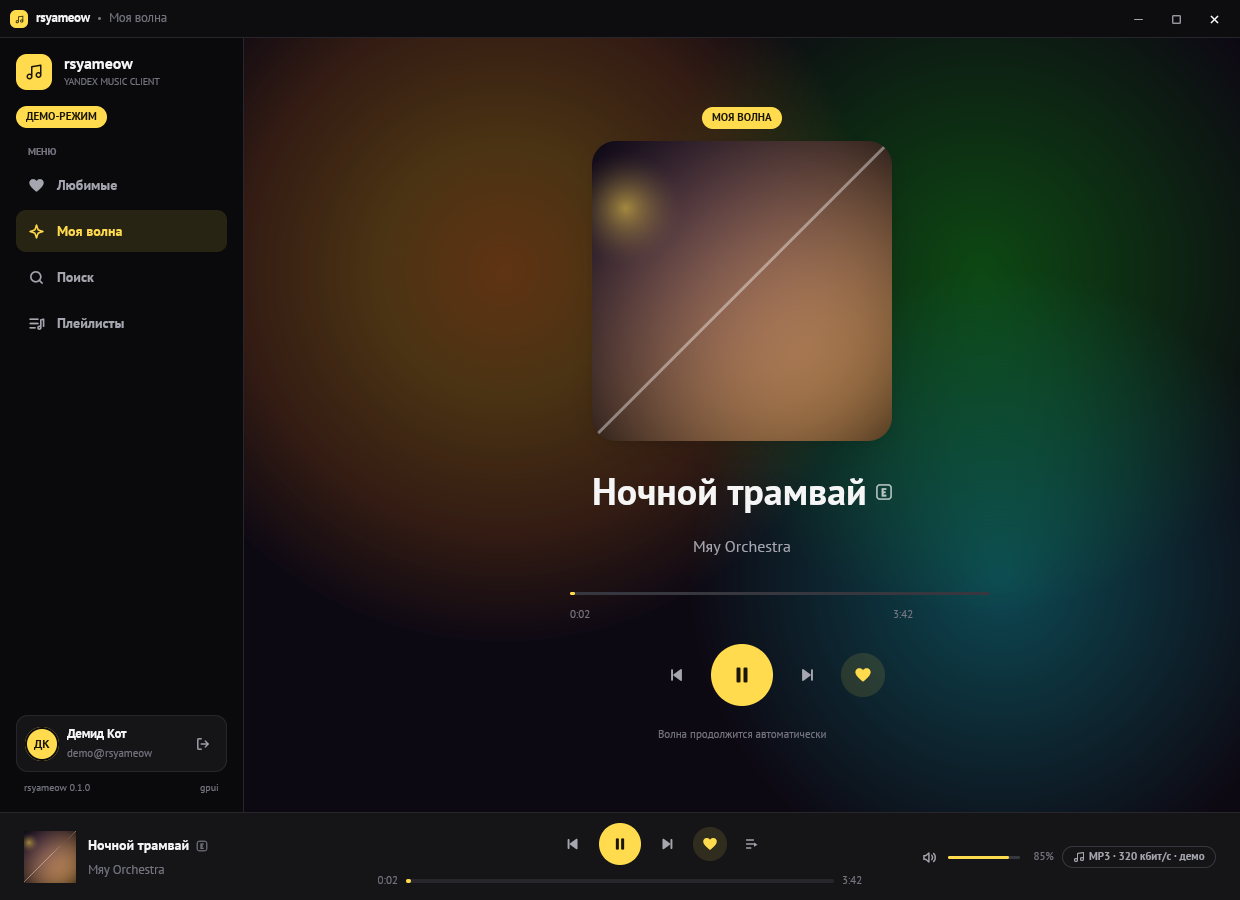
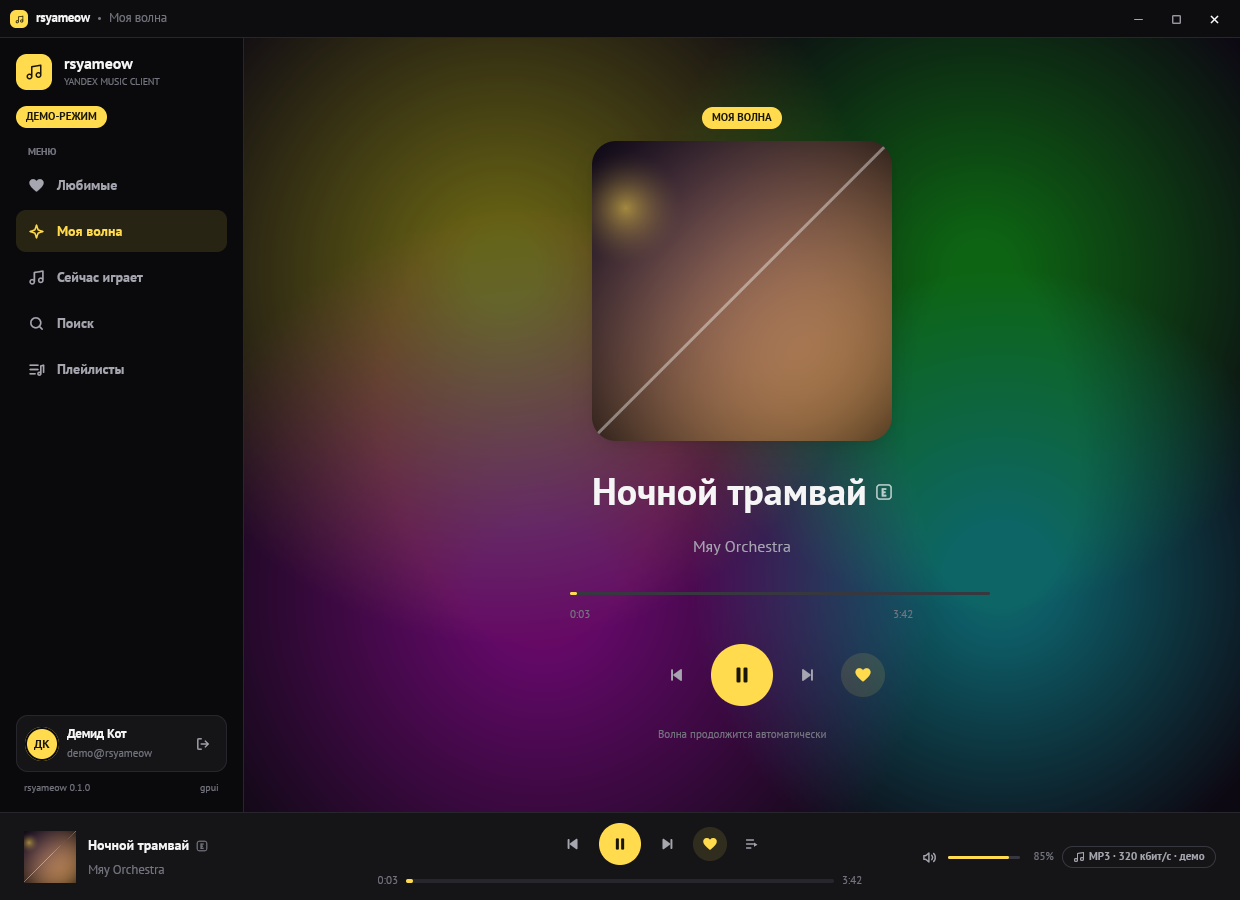
Document static radial gradient background

diff --git a/README.md b/README.md
@@ -43,12 +43,12 @@
   обложка, название, исполнитель и альбом со ссылками, длительность и, для
   текущего трека, позиция прослушивания. Ниже загружается текст песни, если он
   есть; при его отсутствии блок не показывается. Дублирующая карточка «О треке»
-  убрана. Фон — мягкие многоцветные пятна из цветов обложки, которые плавно
-  вспыхивают и затухают (~30 fps, без движения) поверх размытой подложки;
-  карточки с димом. Для треков без обложки используется жёлтая палитра Яндекса.
+  убрана. Фон — четыре статичных radial gradient из цветов обложки поверх
+  размытой подложки, без анимации; карточки с димом. Для треков без обложки
+  используется жёлтая палитра Яндекса.
 - **Сейчас играет.** Отдельная страница текущего трека из плеера или пункта
-  меню «Сейчас играет»; не зависит от выбранного в списке трека. При смене
-  композиции цветовая палитра фона плавно перетекает к цветам новой обложки.
+  меню «Сейчас играет»; не зависит от выбранного в списке трека. Фон — четыре
+  статичных radial gradient, построенных по цветам обложки текущего трека.
 - **Моя волна.** Персональный поток `user:onyourwave`: полноэкранный постер
   текущего трека с крупной обложкой, переключением, лайком и прогрессом.
   Описание и список очереди скрыты. Прогресс можно перематывать слайдером, а
